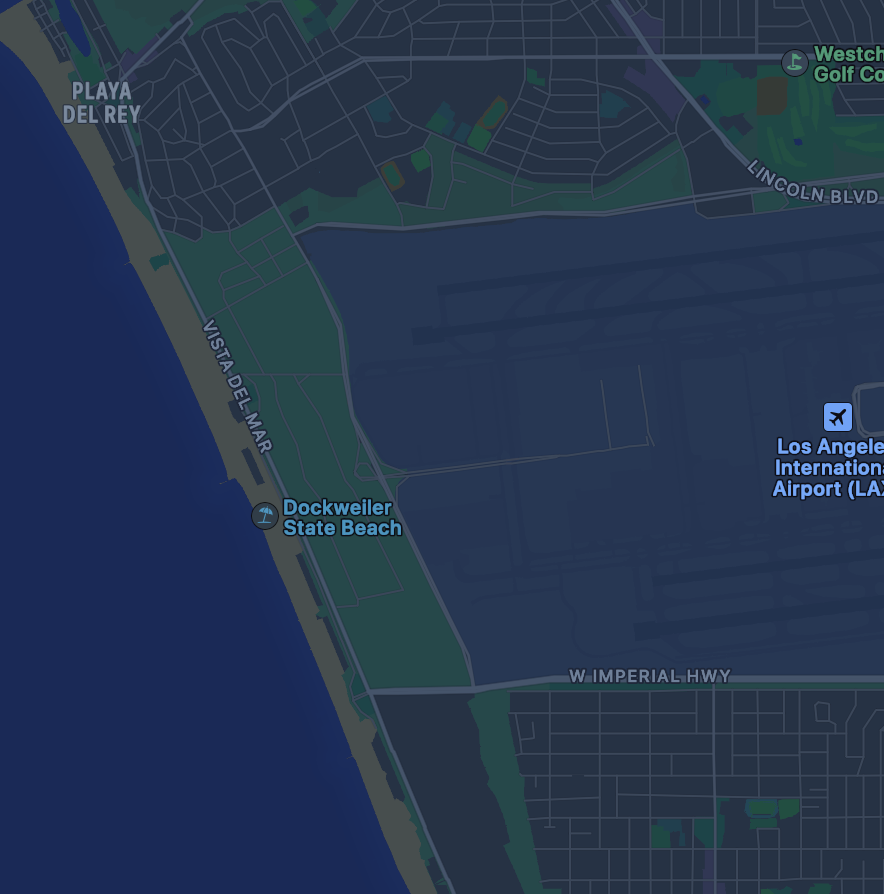
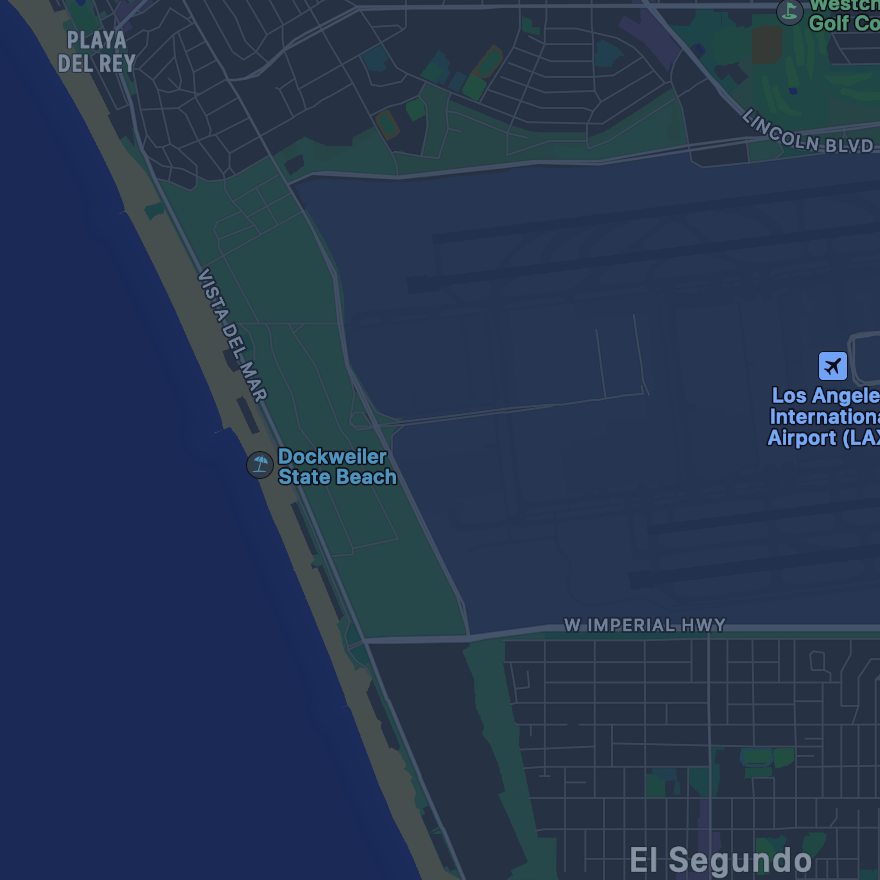
kjsplanes

diff --git a/client/planes.html b/client/planes.html
@@ -27,7 +27,9 @@ const canvas = document.getElementById("c");
 const ctx = canvas.getContext("2d");
 
 // PI
-const socket = io("http://192.168.1.160:5000");
+//const socket = io("http://192.168.1.160:5000");
+const socket = io("https://socket.kjsplanes.com");
+
 
 // MAC
 // const socket = io("http://192.168.1.219:8081");
